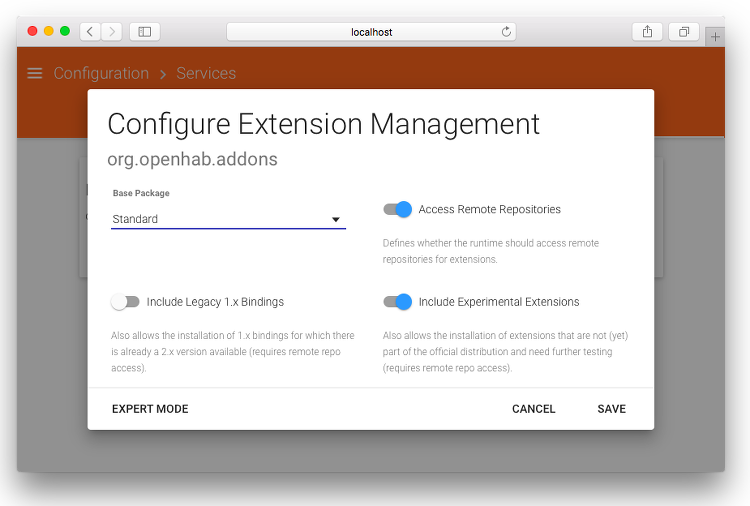
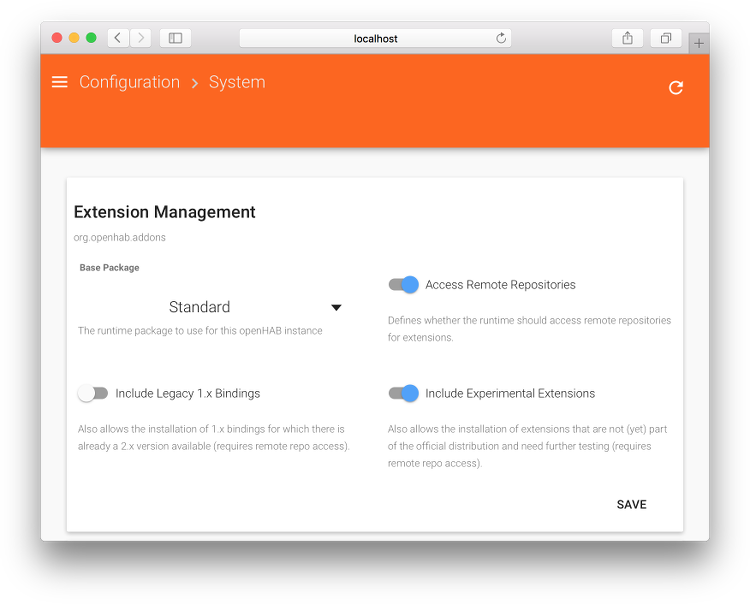
updated location of system configuration

diff --git a/features/automation/ngrules.md b/features/automation/ngrules.md
@@ -13,7 +13,7 @@ Eclipse SmartHome now comes with an initial version of a next-generation rule en
 
 In order to install it you need to:
 
-- Enable remote repository access of your runtime as well as enabling experimental features. You can do so in the Paper UI under `Configuration->Services->System->Extension Management`:
+- Enable remote repository access of your runtime as well as enabling experimental features. You can do so in the Paper UI under `Configuration->System->Extension Management`:
 ![enable experimental](images/experimental.png)
 - Install the rule engine from `Extensions->Misc-> Rule Engine (Experimental)`:
 ![rule engine](images/ruleengine.png)
